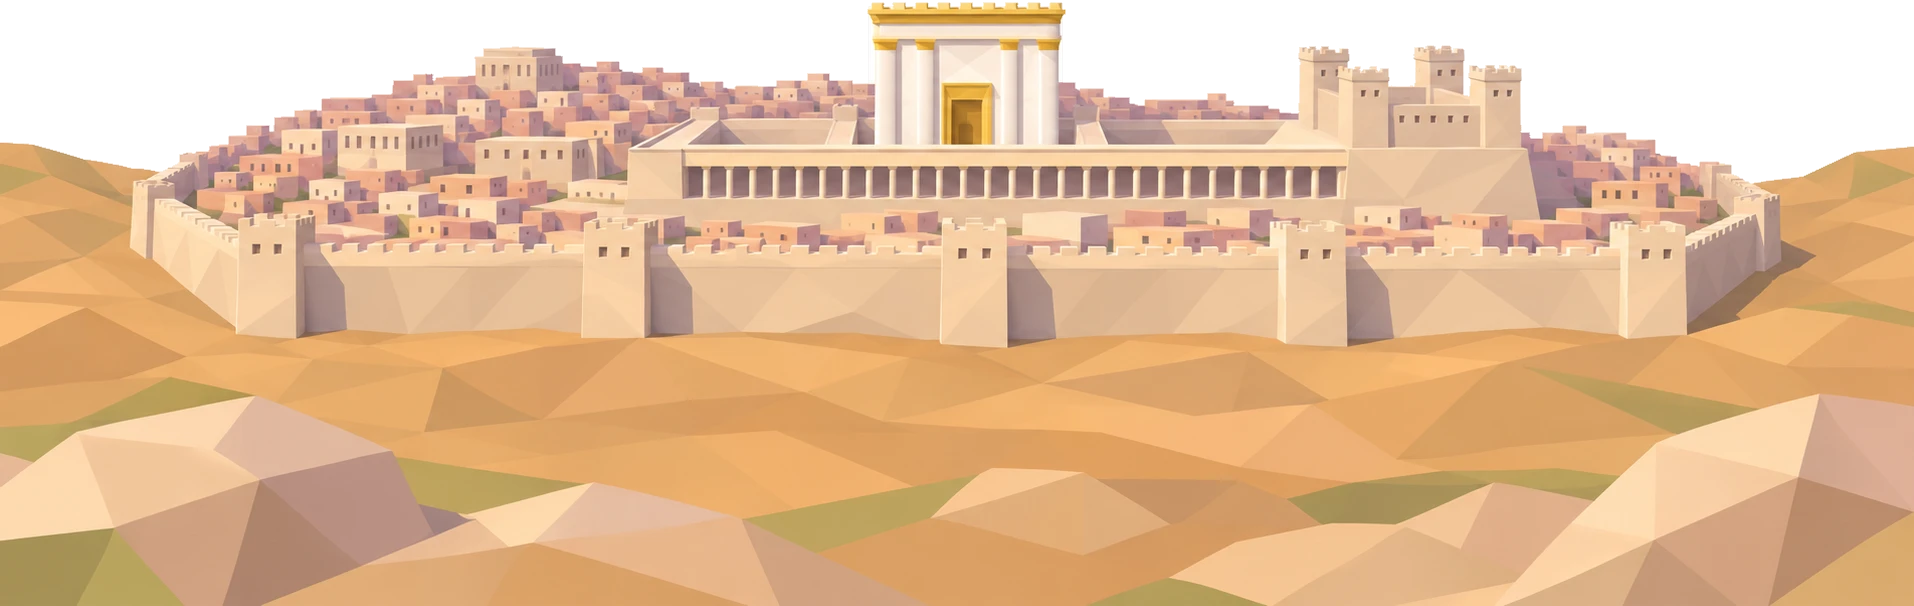
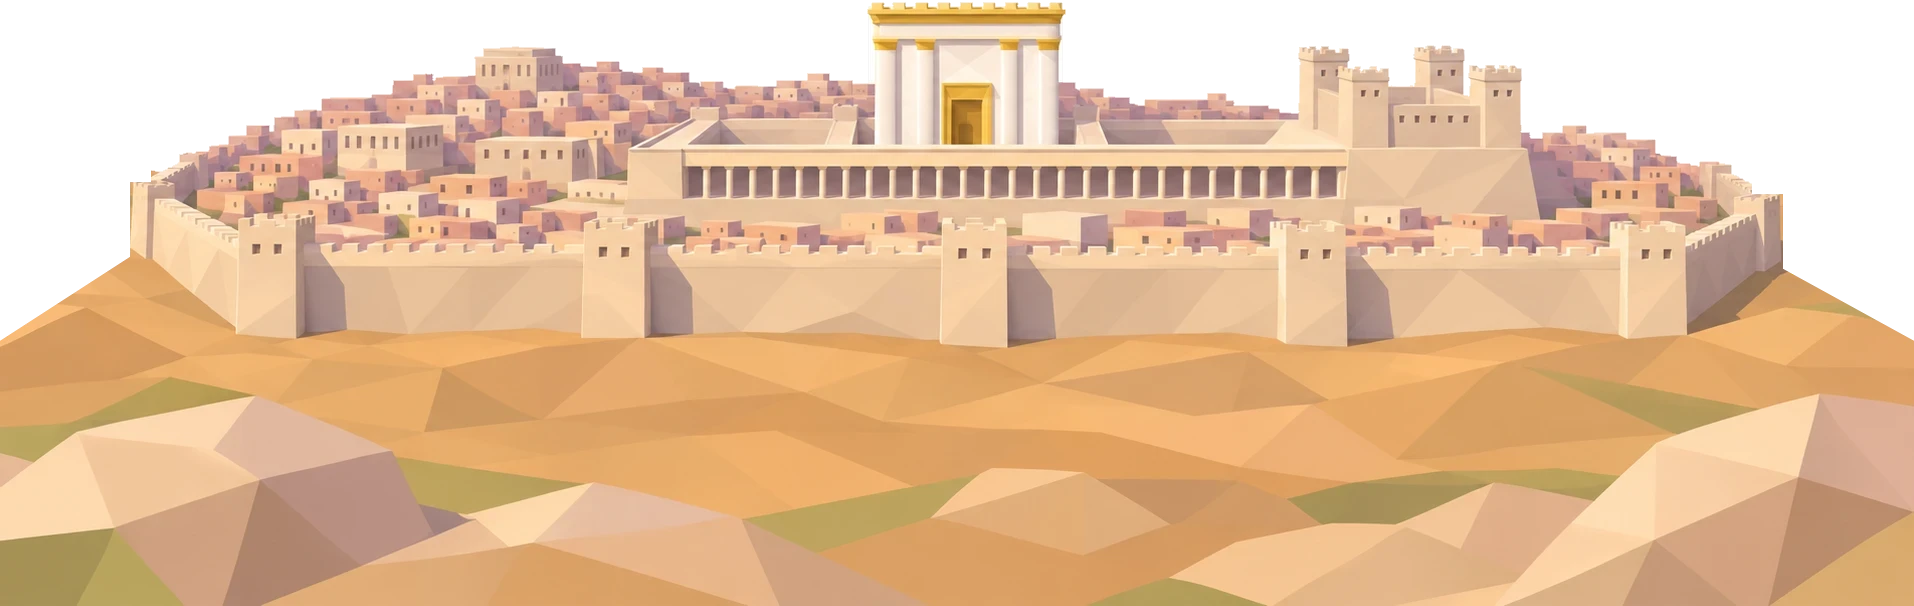
Oliveiras: a cidade termina nos muros, sem esmaecer nas pontas
Os morros dos lados da pintura da cidade saíram da imagem (corte que desce do
canto do muro); o esmaecido das pontas ficou só no chão, bem curto.

Changed region(s): [[0.8939, 0.2376, 1.0, 0.5644], [0.0, 0.2376, 0.0925, 0.5644]]

diff --git a/assets-vila/fase-oliveiras/js/cenario.js b/assets-vila/fase-oliveiras/js/cenario.js
@@ -96,7 +96,7 @@ function camada({ arq, r, larg, hPx, eBase, copias, fade, veu, ordem, nome, saia
   const g = new THREE.BufferGeometry(); g.setAttribute('position', new THREE.Float32BufferAttribute(pos, 3)); g.setAttribute('uv', new THREE.Float32BufferAttribute(uv, 2));
   g.setAttribute('color', new THREE.Float32BufferAttribute(cor, 4)); g.setIndex(idx);
   const mat = matCamada(veu, nome), mesh = new THREE.Mesh(g, mat); mesh.name = 'Panorama_' + nome; mesh.renderOrder = ordem; mesh.frustumCulled = false; scene.add(mesh);
-  new THREE.TextureLoader().load('../fase-oliveiras/tex/' + arq + '?v=2', (t) => { t.colorSpace = THREE.SRGBColorSpace; t.anisotropy = 4; mat.map = t; mat.needsUpdate = true; });
+  new THREE.TextureLoader().load('../fase-oliveiras/tex/' + arq + '?v=3', (t) => { t.colorSpace = THREE.SRGBColorSpace; t.anisotropy = 4; mat.map = t; mat.needsUpdate = true; });
   return { mesh, mat, yb, yt };
 }
 const pontas = (a) => sm(A0, A0 + 0.3, a) * sm(A1, A1 - 0.3, a);
@@ -108,8 +108,8 @@ const LARG_C = THREE.MathUtils.radToDeg(P.a1 - P.a0), PXC = LARG_C / W_IMG, E_ES
 const LARG_E = 42, H_E = 624, E_TOPO_E = E_PE_MURO + 0.35 + 28 * LARG_E / W_IMG, E_BASE_E = E_TOPO_E - H_E * LARG_E / W_IMG;
 // os montes: 56° por cópia, 443 px; a crista mais alta 2° acima dos olhos, aparecendo por cima dos telhados
 const montes = camada({ arq: 'panorama_montes.webp', r: 560, larg: 56, hPx: 443, eBase: 2.0 - 443 * 56 / 1913, copias: [-1, 0, 1], fade: pontas, veu: 0.0, ordem: -3, nome: 'montes', saia: 3 });
-// só o chão das pontas esmaece (os muros fazem a curva 2,7° antes da borda)
-const cidade = camada({ arq: 'panorama_cidade.webp', r: P.r, larg: LARG_C, hPx: 606, eBase: E_ESPLANADA - (606 - 150) * PXC, copias: [0], fade: (a) => sm(P.a0, P.a0 + 0.04, a) * sm(P.a1, P.a1 - 0.04, a), veu: 0.1, ordem: -2, nome: 'cidade' });
+// os morros dos lados foram tirados da imagem (a cidade termina nos muros); só o chão das pontas esmaece um pouco
+const cidade = camada({ arq: 'panorama_cidade.webp', r: P.r, larg: LARG_C, hPx: 606, eBase: E_ESPLANADA - (606 - 150) * PXC, copias: [0], fade: (a) => sm(P.a0, P.a0 + 0.015, a) * sm(P.a1, P.a1 - 0.015, a), veu: 0.1, ordem: -2, nome: 'cidade' });
 const encosta = camada({ arq: 'panorama_encosta.webp', r: 300, larg: LARG_E, hPx: H_E, eBase: E_BASE_E, copias: [-2, -1, 0, 1, 2], fade: pontas, veu: 0.05, ordem: -1, nome: 'encosta', desloc: 0.5 });
 const PAN = { mat: cidade.mat, mesh: cidade.mesh, montes, encosta };
 {

diff --git a/assets-vila/fase-oliveiras/index.html b/assets-vila/fase-oliveiras/index.html
@@ -18,7 +18,7 @@
 { "imports": {
   "three": "https://cdn.jsdelivr.net/npm/three@0.170.0/build/three.module.js",
   "three/addons/": "https://cdn.jsdelivr.net/npm/three@0.170.0/examples/jsm/",
-  "./js/cenario.js": "./js/cenario.js?v=b19b7790",
+  "./js/cenario.js": "./js/cenario.js?v=ad593c06",
   "./js/estado.js": "./js/estado.js?v=44b96e1d",
   "./js/gente.js": "./js/gente.js?v=8e9253b9",
   "./js/jogador.js": "./js/jogador.js?v=14c98c97",
